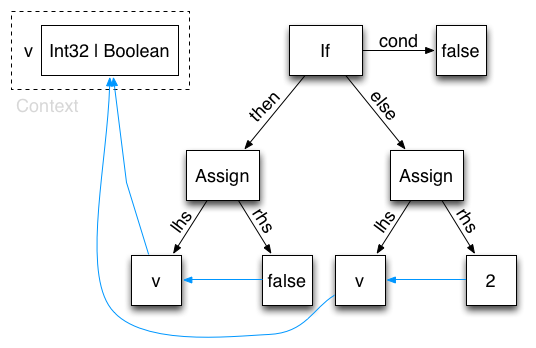
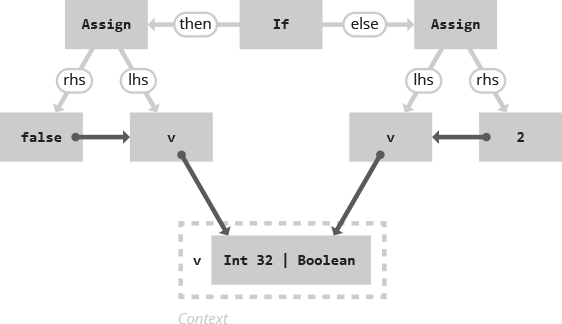
Type inference images more according to site’s style

diff --git a/stylesheets/_sass/stylesheet.less b/stylesheets/_sass/stylesheet.less
@@ -247,6 +247,14 @@ img {
   vertical-align: middle;
   border: 0;
   -ms-interpolation-mode: bicubic;
+
+  &.center {
+    margin-left: auto;
+    margin-right: auto;
+    margin-top: 20px;
+    margin-bottom: 20px;
+    display: block;
+  }
 }
 
 // Prevent max-width from affecting Google Maps

diff --git a/stylesheets/stylesheet.css b/stylesheets/stylesheet.css
@@ -69,6 +69,13 @@ img {
   border: 0;
   -ms-interpolation-mode: bicubic;
 }
+img.center {
+  margin-left: auto;
+  margin-right: auto;
+  margin-top: 20px;
+  margin-bottom: 20px;
+  display: block;
+}
 #map_canvas img {
   max-width: none;
 }

diff --git a/_posts/2013-09-23-type-inference-part-1.md b/_posts/2013-09-23-type-inference-part-1.md
@@ -41,7 +41,7 @@ Instead of computing it in a backtracking fashion (in order to support more comp
 
 The next picture shows the AST nodes, the context where the variables and their types are hold, and blue arrows that highlight the type dependency between parts.
 
-![](/images/type-inference/assign-variable.png)
+<img src="/images/type-inference/assign-variable.png" class="center"/>
 
 **Conditionals (a.k.a. Ifs)**
 
@@ -59,13 +59,13 @@ At the end of it `v` should be of type `Int32 | Boolean`.
 
 Once more, we show the AST nodes, the context where the variables and their types are hold, and blue arrows that highlight the type dependency between parts.
 
-![](/images/type-inference/conditional-1.png)
+<img src="/images/type-inference/conditional-1.png" class="center"/>
 
 When a new type arrives to the variable in the context, this is added to the "ongoing" known types. So the union appears.
 
 There is one thing that is not shown still. *Every* ocurrence of the variables have a dependency to the context. This is shown in the following picture:
 
-![](/images/type-inference/conditional-2.png)
+<img src="/images/type-inference/conditional-2.png" class="center"/>
 
 This way, each assignment knows that it is aimed to assign a `Boolean` to a `Int32 | Boolean` or `Int32` to `Int32 | Boolean`. This information is used in the codegen.
 
